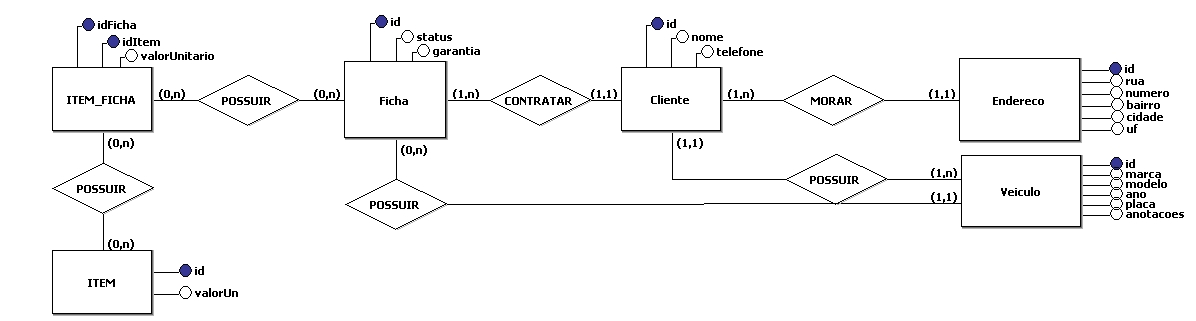
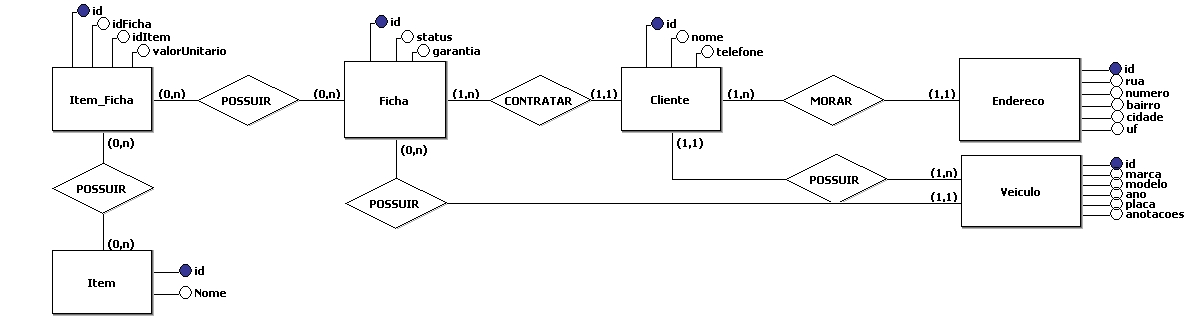
ticket creation system added

diff --git a/app.js b/app.js
@@ -11,6 +11,9 @@
   const User = require('./models/User')
   const Address = require('./models/Address')
   const Vehicle = require('./models/Vehicle')
+  const Item = require('./models/Item')
+  const Ticket = require('./models/Ticket')
+  const ItemTicket = require('./models/ItemTicket')
 
 //DATABASE
   const db = require('./models/db')
@@ -47,28 +50,35 @@
 })
 
   //EXIBIR LISTA DE USUÁRIOS CADASTRADOS
-  app.get('/usuariosCadastrados', async(req, res) =>{
+  app.get('/usuariosCadastrados', async(req, res)=>{
     const result = await db.query(myQuery.SELECT_USERDATA_ADDRESS())
     res.render('usuariosCadastrados', { dados:result[0] })
   })
 
   //PAGINA ESPECIFICA DE CADA CLIENTE
-  app.get('/cadum/:id', async(req, res) =>{
+  app.get('/cadum/:id', async(req, res)=>{
     const result = await db.query(myQuery.SELECT_USERDATA_ADDRESS_ID(req.params.id))
     res.render('cadum', { dados:result[0] })
   })
 
   // PAGINA CADASTRAR VEICULO NO USUARIO
-  app.get('/cadastrarVeiculo/:id', async(req, res) =>{
+  app.get('/cadastrarVeiculo/:id', async(req, res)=>{
     const result = await db.query(myQuery.SELECT_USERDATA_ADDRESS_ID(req.params.id))
     const vehicle = await db.query(myQuery.SELECT_VEHICLES_BY_USERID(req.params.id))
     res.render('cadastroVeiculos', { dados:result[0], vehicles: vehicle[0] })
 
   })
 
+  //CRIAR FICHA
+  app.get('/ficha/:id', async(req,res)=>{
+    const resultUser = await db.query(myQuery.SELECT_USERDATA_ADDRESS_ID(req.params.id))
+    const resultVehicle = await db.query(myQuery.SELECT_VEHICLES_BY_USERID(req.params.id))
+    res.render('ficha', { vehicle:resultVehicle[0], user:resultUser[0] })
+  })
+
 //CADASTRAR EM BANCO
   //USUARIO
-    app.post('/cadastrar', async(req, res) =>{
+    app.post('/cadastrar', async(req, res)=>{
         const newAddress = await Address.create({
           cep: req.body.cep,
           rua: req.body.rua,
@@ -92,7 +102,7 @@
     })
   
   //VEICULO
-    app.post('/cadastrarVeiculos/:idUser', async(req, res) =>{
+    app.post('/cadastrarVeiculos/:idUser', async(req, res)=>{
       await Vehicle.create({
         marca: req.body.marca,
         modelo: req.body.modelo,
@@ -106,6 +116,23 @@
         return res.status(400).json({
         erro: true,
         mensagem: "Veiculo não cadastrado " + err
+        })
+      })
+    })
+  
+  //CRIAR FICHA
+    app.post('/criarFicha', async(req,res)=>{
+      await Ticket.create({
+        status: req.body.status,
+        garantia: req.body.garantia,
+        idUsuario: req.body.idUsuario,
+        idVeiculo: req.body.idVeiculo
+      }).then(()=>{
+        return res.status(200).redirect(`/cadum/${req.body.idUsuario}`)
+      }).catch((err)=> {
+        return res.status(400).json({
+        erro: true,
+        mensagem: "Não foi possível criar a ficha " + err
         })
       })
     })

diff --git a/models/ItemTicket.js b/models/ItemTicket.js
@@ -1,0 +1,39 @@
+const Sequelize = require('sequelize')
+const db = require('./db')
+const Item = require('./Item')
+const Ticket = require('./Ticket')
+
+const ItemTicket = db.define('ItemTickets',{
+  id:{
+    type: Sequelize.INTEGER,
+    autoIncrement: true,
+    allowNull: false ,
+    primaryKey: true
+  },
+  valorUn:{
+    type: Sequelize.FLOAT,
+    allowNull: false
+  },
+  quantidade:{
+  type: Sequelize.INTEGER,
+  allowNull: false
+  }
+})
+
+ItemTicket.belongsTo(Ticket,{
+  constraint: true,
+  foreignKey:'idTicket'
+})
+
+ItemTicket.belongsTo(Item,{
+  constraint: true,
+  foreignKey:'idItem'
+})
+
+
+//se não existir criar a tabela
+  // ItemTicket.sync()
+//recriar tabela
+  //  ItemTicket.sync({force: true})
+
+module.exports = ItemTicket

diff --git a/models/Ticket.js b/models/Ticket.js
@@ -1,0 +1,38 @@
+const Sequelize = require('sequelize')
+const db = require('./db')
+const User = require('./User')
+const Vehicle = require('./Vehicle')
+
+const Ticket = db.define('tickets',{
+  id:{
+  type: Sequelize.INTEGER,
+  autoIncrement: true,
+  allowNull: false ,
+  primaryKey: true
+  },
+  status:{
+  type: Sequelize.STRING,
+  allowNull: false
+  },
+  garantia:{
+  type: Sequelize.INTEGER,
+  allowNull: false
+  }
+})
+
+Ticket.belongsTo(User,{
+constraint: true,
+foreignKey: 'idUsuario'
+})
+
+Ticket.belongsTo(Vehicle,{
+constraint: true,
+foreignKey: 'idVeiculo'
+})
+
+//se não existir criar a tabela
+  // Ticket.sync()
+//recriar tabela
+  //  Ticket.sync({force: true}) 
+
+module.exports = Ticket

diff --git a/models/Item.js b/models/Item.js
@@ -1,0 +1,22 @@
+const Sequelize = require('sequelize')
+const db = require('./db')
+
+const Item = db.define('items',{
+  id:{
+    type: Sequelize.INTEGER,
+    autoIncrement: true,
+    allowNull: false ,
+    primaryKey: true
+  },
+  nome:{
+    type: Sequelize.STRING,
+    allowNull: false
+  }
+})
+ 
+//se não existir criar a tabela
+// Item.sync()
+//recriar tabela
+  //  Item.sync({force: true})
+
+module.exports = Item

diff --git a/public/css/style.css b/public/css/style.css
@@ -24,13 +24,13 @@ body{
   font-size: 20px;
 }
 
- .flex-camp{
+.flex-camp{
   display: flex;
   justify-items: center;
   align-items: center;
   flex-direction: column;
   gap: 5px;
- }
+}
 
 .input{
   border-radius: 4px;
